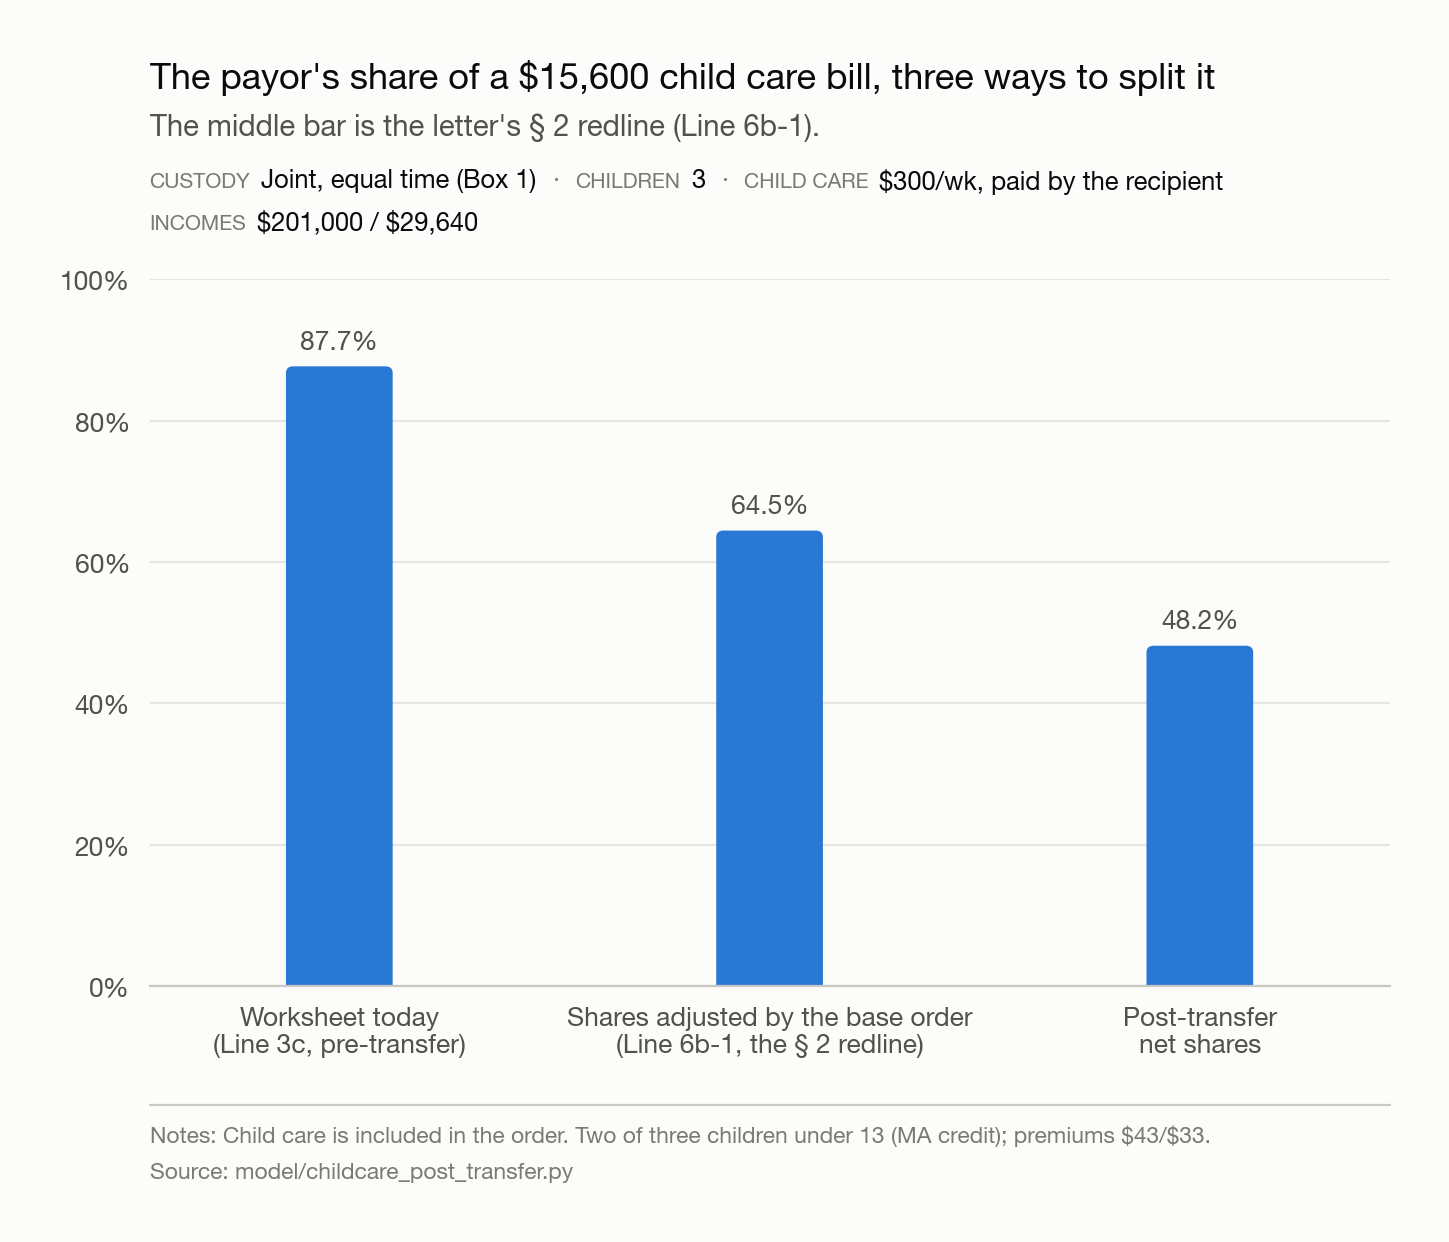
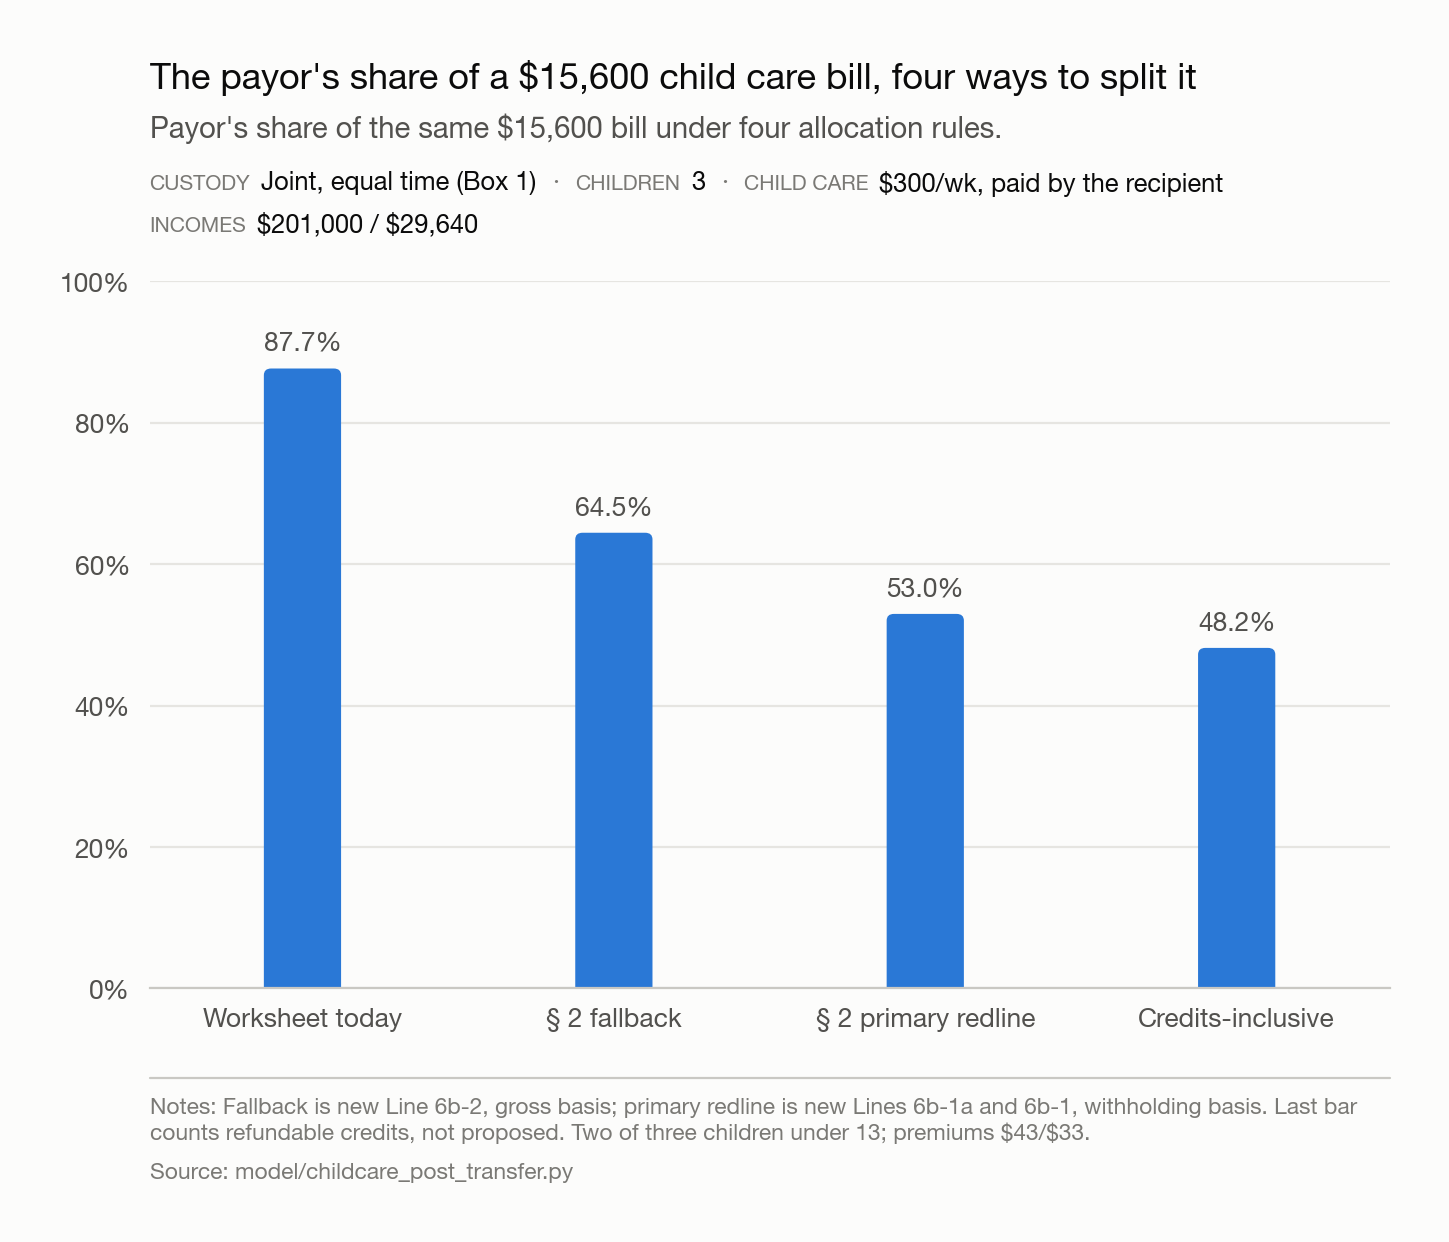
Sync stale model/exhibit files behind the child-care 53.0% ask; fix E06 caption drift and run-file links
Critical: model/test_childcare_post_transfer.py was published with 10 checks and no rule5
(withholding-basis) test at all, so the page's own "check it yourself" claim was false against
the file a visitor downloads. Synced from the private repo (20 checks), scrubbing one
Chris-attributed comment to match the existing public convention.

Important A: E06's published PNG/CSV baked in the old 64.5%/48.2% two-bar reading and labelled
the 64.5% bar "the letter's § 2 redline (Line 6b-1)," which is now false -- 64.5% is the Line
6b-2 fallback and the redline is 53.0%. Copied the re-rendered four-bar PNG and CSV from the
private repo at the same paths (byte-identical, verified by sha256) and rewrote the three
notes= captions that said the 53.0% figure "is not yet plotted."

Important B: recommendations/index.md linked twice to
model/runs/recommendations-run-2026-09-07.txt, which has no 53.0% row and still calls the 64.5%
fallback "Line 6b-1." Copied the private repo's 2026-09-08 run file into model/runs/ (old file
kept, not deleted) and repointed both links.

Minor (pre-existing): removed "Nothing here has been submitted to the Trial Court" -- the site's
standing rule is never to state a document's send/submission status in either direction.

Also synced model/recommendations.py and model/test_recommendations.py, discovered stale in the
same way while verifying the run-file fix (same root cause: public copies not updated since the
[…]

diff --git a/model/recommendations.py b/model/recommendations.py
@@ -228,9 +228,12 @@ def as_prior_task_forces_sentences():
 def childcare_rules():
     """Five childcare rules at the worked example ($300/wk paid by the recipient,
     $0 by the payor): the current worksheet, removing childcare from the worksheet
-    entirely, a flat 50-50 split after base support, the Line 6b-1 post-transfer
-    GROSS redline (childcare_post_transfer.py rule 2b), and the post-transfer NET
-    version from the same module (rule 3/4, its fixed point).
+    entirely, a flat 50-50 split after base support, the post-transfer GROSS
+    fallback (childcare_post_transfer.py rule 2b, comments' Line 6b-2), and the
+    post-transfer NET withholding-basis rule (rule 5) -- the comments' Line 6b-1
+    redline and the RECOMMENDED row. Row 5 runs through the order itself, the same
+    as row 4, because Line 6b-1 sits inside the 6b -> 6c -> 6e -> 6g -> 7b -> 7d
+    chain; it is not a private side payment beside an unchanged order.
 
     Each row reports the worksheet order (weekly/monthly), the payor's effective
     share of the $15,600/yr childcare cost in percent and dollars, and both
@@ -281,23 +284,27 @@ def childcare_rules():
     order4 = f["rule2b_7d"]
     share4 = f["rule2b_share"]
     pos4 = after_tax(order4, 0.0)
-    rows.append({"n": 4, "label": "Post-transfer GROSS shares on Line 3a (comments' Line 6b-1 redline)",
+    rows.append({"n": 4, "label": "Post-transfer GROSS shares on Line 3a (comments' fallback, Line 6b-2)",
                  "order_wk": order4, "share": share4, "pos": pos4})
 
-    # 5. Post-transfer NET shares -- the paper's version. The worksheet order stays
-    # at the no-childcare figure; childcare is allocated directly at the
-    # post-transfer NET income share, which childcare_post_transfer.py finds is a
-    # fixed point equal to rule 3's (no-childcare) net share.
-    order5 = base
-    share5 = f["rule3_share"]
-    pos5 = after_tax(order5, share5)
-    rows.append({"n": 5, "label": "Post-transfer NET shares (paper's version, fixed point)",
+    # 5. THE RECOMMENDATION as of v4.9: post-transfer NET shares on the withholding
+    # basis, applied AS A WORKSHEET LINE. Line 6b-1 feeds 6b -> 6c -> 6e -> 6g -> 7b
+    # -> 7d, so the order itself moves; this is the same linear step rule 2b (row 4)
+    # uses, and it is what the comments' Section 2 actually asks for. Modelling it as
+    # a private side payment -- which this row did before 2026-09-08 -- proposed a
+    # different remedy from the letter and was the audit's finding C3.
+    order5 = f["rule5_7d"]
+    share5 = f["rule5_share"]
+    pos5 = after_tax(order5, 0.0)   # the child-care transfer is inside the order
+    rows.append({"n": 5, "label": "Post-transfer NET shares on the withholding basis "
+                                  "(comments' Line 6b-1 redline, RECOMMENDED)",
                  "order_wk": order5, "share": share5, "pos": pos5})
 
     headline = {
-        "before_share": f["rule1_share"],            # Line 3c, "before the order"
-        "after_gross_share": f["rule2_gross_share"],  # post-transfer GROSS
-        "after_net_share": f["rule3_share"],          # post-transfer NET
+        "before_share": f["rule1_share"],                      # Line 3c, "before the order"
+        "after_gross_share": f["rule2_gross_share"],            # post-transfer GROSS
+        "after_net_share": f["rule3_share"],                    # post-transfer NET, credits included (analysis)
+        "after_net_withholding_share": f["rule5_share"],        # post-transfer NET, withholding basis (the ask)
     }
     return rows, cc_annual, headline
 
@@ -425,6 +432,24 @@ def main():
           f"block: {total_hits}")
     prior_hits = as_prior_task_forces_sentences()
     print(f"\n  'as prior task forces' across data/extracted/*.flow.txt: {len(prior_hits)} hit(s)")
+
+    # The Guidelines PDF's own commentary is not the whole corpus any more. Since 2026-09-08 the
+    # prior task force reports and economic reviews, 2001-2025, are in data/source/taskforce/ and
+    # data/deferrals-gross-vs-net.json records what each cycle's OWN document says. Print that here
+    # so this run output cannot be read as the complete picture.
+    import json as _json
+    _dp = os.path.join(REPO, "data", "deferrals-gross-vs-net.json")
+    if os.path.exists(_dp):
+        _d = _json.load(open(_dp))
+        _def = [c for c in _d["cycles"] if c["status"] == "DEFERRED"]
+        print(f"\n  FULL CORPUS (data/deferrals-gross-vs-net.json, {len(_d['cycles'])} reviews):")
+        print(f"  {len(_def)} cycles take up gross versus net and none change it:")
+        for c in _def:
+            print(f"      {c['year']}  {c.get('source_kind', 'unknown source')}")
+        _tf = [c['year'] for c in _def if c.get('source_kind') == 'task force report']
+        _er = [c['year'] for c in _def if c.get('source_kind', '').startswith('economic review')]
+        print(f"  Task force decisions: {_tf}.  Economic review statements: {_er}.")
+        print("  Never write 'five task forces declined'; only the first list is task force decisions.")
     for fname, sentence in prior_hits:
         print(f"      {fname}: \"{sentence}\"")
     files_with_hit = sorted({fname for fname, _ in prior_hits})

diff --git a/model/test_childcare_post_transfer.py b/model/test_childcare_post_transfer.py
@@ -4,6 +4,7 @@ import sys
 
 sys.path.insert(0, os.path.dirname(os.path.abspath(__file__)))
 import childcare_post_transfer as c  # noqa: E402
+import net_position as npos  # noqa: E402
 
 FAILS = []
 
@@ -25,6 +26,36 @@ check("gross post-transfer share 64.3% (not the letter's number)", round(f["rule
 check("the two 6b-1 shares sum to one", abs(f["rule2b_share"] + (1 - f["rule2b_share"]) - 1) < 1e-12)
 check("per person the payor still leads", f["payor_after"] > f["recip_pp"], (f["payor_after"], f["recip_pp"]))
 
+# v4.9: the withholding basis. In a joint-custody case the credits and the filing status
+# are commonly alternated year to year, and CJ-D 304 collects neither, so the rule cannot
+# depend on them.
+_PG, _RG = c.PAYOR_GROSS, c.RECIP_GROSS
+_plain_p = npos.net_income_withholding_basis(_PG)
+_plain_r = npos.net_income_withholding_basis(_RG)
+
+check("withholding-basis payor net is $139,833.50", round(_plain_p, 2) == 139833.50, _plain_p)
+check("withholding-basis recipient net is $24,733.74", round(_plain_r, 2) == 24733.74, _plain_r)
+check("payor claims no dependents, so both bases agree for him",
+      abs(_plain_p - npos.net_income(_PG, "single", 0, npos.TAX_PARAMS)) < 0.01)
+check("the recipient's credits are real money, and are what the rule leaves out",
+      npos.net_income(_RG, "hoh", 3, npos.TAX_PARAMS, 2) > _plain_r + 16000,
+      npos.net_income(_RG, "hoh", 3, npos.TAX_PARAMS, 2) - _plain_r)
+
+check("rule 5 (the ask): payor share 53.0%", round(f["rule5_share"], 3) == 0.530, f["rule5_share"])
+check("rule 5 order is $1,171.64/wk", round(f["rule5_7d"], 2) == 1171.64, f["rule5_7d"])
+check("rule 5 saves $5,415/yr", round(f["rule5_saving_yr"]) == 5415, f["rule5_saving_yr"])
+check("the ask sits between the gross fallback and the credits-inclusive analysis",
+      f["rule2b_share"] > f["rule5_share"] > f["rule3_share"],
+      (f["rule2b_share"], f["rule5_share"], f["rule3_share"]))
+check("and far below what the Worksheet does today",
+      f["rule1_share"] - f["rule5_share"] > 0.30, f["rule1_share"] - f["rule5_share"])
+
+# No per-filer fact enters the share -- recompute it from scratch and it must agree.
+_b = c.base_order() * 52
+_a5, _b5 = _plain_p - _b, _plain_r + _b
+check("rule 5 depends only on gross income and the schedules",
+      abs(_a5 / (_a5 + _b5) - f["rule5_share"]) < 1e-12)
+
 if FAILS:
     print("\n".join(FAILS)); sys.exit(1)
-print("All checks passed (10).")
+print("All checks passed (20).")

diff --git a/model/test_recommendations.py b/model/test_recommendations.py
@@ -101,18 +101,30 @@ rule3 = next(r for r in f_rows if r["n"] == 3)
 check("rule 3 (50-50 split) payor's childcare share is 50%", rule3["share"] == 0.5)
 
 rule4 = next(r for r in f_rows if r["n"] == 4)
-check("rule 4 (post-transfer GROSS / Line 6b-1) order reproduces $1,206.08/wk",
+check("rule 4 (post-transfer GROSS / Line 6b-2 fallback) order reproduces $1,206.08/wk",
       abs(rule4["order_wk"] - 1206.08) < 0.01)
 check("rule 4 payor's childcare share is about 64.5%", abs(rule4["share"] - 0.6445) < 0.001)
 
 rule5 = next(r for r in f_rows if r["n"] == 5)
-check("rule 5 (post-transfer NET) order equals the no-childcare Box 1 order",
-      abs(rule5["order_wk"] - b1) < 0.005)
-check("rule 5 payor's childcare share is about 48.2%", abs(rule5["share"] - 0.4816) < 0.001)
+check("rule 5 (post-transfer NET, withholding basis, Line 6b-1 RECOMMENDED) "
+      "order reproduces $1,171.64/wk", abs(rule5["order_wk"] - 1171.64) < 0.01)
+check("rule 5 payor's childcare share is about 53.0%", abs(rule5["share"] - 0.530) < 0.001)
 
 check("headline 'before' share matches rule 1's share", abs(headline["before_share"] - rule1["share"]) < 1e-9)
 check("headline 'after gross' share is about 64.3%", abs(headline["after_gross_share"] - 0.6432) < 0.001)
-check("headline 'after net' share matches rule 5's share", abs(headline["after_net_share"] - rule5["share"]) < 1e-9)
+check("headline 'after net' share (credits-inclusive, analysis) is about 48.2%",
+      abs(headline["after_net_share"] - 0.4816) < 0.001)
+
+# C3: the letter's Line 6b-1 sits inside 6b -> 6c -> 6e -> 6g -> 7b -> 7d, so the order
+# moves. A private side payment is a different remedy -- no contempt, no wage assignment,
+# no DOR collection -- and the site must demonstrate what the letter asks for.
+_rec = [r for r in f_rows if r["n"] == 5][0]
+_cur = [r for r in f_rows if r["n"] == 1][0]
+_none = [r for r in f_rows if r["n"] == 2][0]
+check("recommended child care share is 53.0%", round(_rec["share"], 3) == 0.530)
+check("recommended order is $1,171.64/wk", round(_rec["order_wk"], 2) == 1171.64)
+check("the recommended order is NOT the no-child-care order", _rec["order_wk"] > _none["order_wk"])
+check("and it is below the current worksheet order", _rec["order_wk"] < _cur["order_wk"])
 
 
 def main():

diff --git a/recommendations/index.md b/recommendations/index.md
@@ -41,7 +41,7 @@ figure is reproduced in the model files linked at the bottom of this page.
 
 This part is analysis beyond what the comments ask for. It compares Massachusetts's Worksheet
 against other states' schedules and against the child support recommendations Chris has made from
-that comparison. Nothing here has been submitted to the Trial Court.
+that comparison.
 
 ### The joint-custody discount should come from a cross-credit, using the factor other states use
 
@@ -150,7 +150,7 @@ the basis it is actually paid from.
 Every figure above is printed by <a href="/model/recommendations.py"><code>model/recommendations.py</code></a>,
 checked by <a href="/model/test_recommendations.py"><code>model/test_recommendations.py</code></a>,
 and reproduced in the full run at
-<a href="/model/runs/recommendations-run-2026-09-07.txt">model/runs/recommendations-run-2026-09-07.txt</a>.
+<a href="/model/runs/recommendations-run-2026-09-08.txt">model/runs/recommendations-run-2026-09-08.txt</a>.
 The fifty-jurisdiction figures come from the same tiered dataset used throughout this site,
 <a href="/data/fifty-state/tier-50-2026-09-05.json">tier-50-2026-09-05.json</a>; Washington and
 California's own basis and income ceilings are in
@@ -161,7 +161,7 @@ California's own basis and income ceilings are in
   <ul>
     <li><a href="/model/recommendations.py"><code>model/recommendations.py</code></a></li>
     <li><a href="/model/test_recommendations.py"><code>model/test_recommendations.py</code></a></li>
-    <li><a href="/model/runs/recommendations-run-2026-09-07.txt">The full printed run</a></li>
+    <li><a href="/model/runs/recommendations-run-2026-09-08.txt">The full printed run</a></li>
     <li><a href="https://github.com/campbefs/checktheworksheet">The repository</a></li>
   </ul>
 </div>

diff --git a/findings/child-care.md b/findings/child-care.md
@@ -82,10 +82,10 @@ but Line 6b never re-measures the shares against that transfer.
 {% include figure.html
    id="e06"
    img="/figures/exhibits/E06-child-care-share-three-rules-worked-example.png"
-   alt="Bar chart of the payor's share of a $15,600 annual child care claim under three allocation rules, at the worked example."
-   title="The payor's share of a $15,600 child care bill, three ways to split it."
+   alt="Bar chart of the payor's share of a $15,600 annual child care claim under four allocation rules, at the worked example."
+   title="The payor's share of a $15,600 child care bill, four ways to split it."
    deck="Line 3c allocates 87.7 percent to the payor on pre-transfer income shares."
-   notes="The comments' current lead redline measures the split net of tax on a withholding basis and reaches 53.0 percent, not yet plotted in this chart. The two bars shown here are the prior figures: 64.5 percent is the post-transfer gross fallback, renumbered Line 6b-2; 48.2 percent is the post-transfer net figure counting refundable tax credits, which now survives only as analysis, because the Worksheet has no field for which parent claims which child."
+   notes="The § 2 fallback, adjusting shares by the base order alone (Line 6b-2), gives 64.5 percent. The § 2 primary redline, measured net of tax on a withholding basis (Line 6b-1), gives 53.0 percent. Counting refundable tax credits as well gives 48.2 percent, kept as analysis, not asked for, because the Worksheet has no field for which parent claims which child."
    source_script="model/charts/fig2_childcare.py"
    csv_href="/figures/working/fig2_childcare_worked_example.csv"
    lazy="false" %}

diff --git a/findings/index.md b/findings/index.md
@@ -35,10 +35,10 @@ afterward.
 {% include figure.html
    id="e06"
    img="/figures/exhibits/E06-child-care-share-three-rules-worked-example.png"
-   alt="Bar chart of the payor's share of a $15,600 annual child care claim under three allocation rules, at the worked example."
-   title="The payor's share of a $15,600 child care bill, three ways to split it."
+   alt="Bar chart of the payor's share of a $15,600 annual child care claim under four allocation rules, at the worked example."
+   title="The payor's share of a $15,600 child care bill, four ways to split it."
    deck="Line 3c allocates 87.7 percent to the payor on pre-transfer income shares."
-   notes="The letter's current § 2 redline measures the split net of tax on a withholding basis and reaches 53.0 percent, not yet plotted in this chart. Adjusting the shares by the base order alone, the fallback confined to the Worksheet's existing gross-based lines, gives 64.5 percent. Post-transfer net shares counting refundable tax credits give 48.2 percent, kept as analysis, not the ask. The middle and right bars above are the prior figures."
+   notes="Adjusting the shares by the base order alone, the fallback confined to the Worksheet's existing gross-based lines (Line 6b-2), gives 64.5 percent. The letter's current § 2 redline, measured net of tax on a withholding basis (Line 6b-1), gives 53.0 percent. Post-transfer net shares counting refundable tax credits give 48.2 percent, kept as analysis, not the ask."
    source_script="model/charts/fig2_childcare.py"
    csv_href="/figures/working/fig2_childcare_worked_example.csv"
    lazy="false" %}
